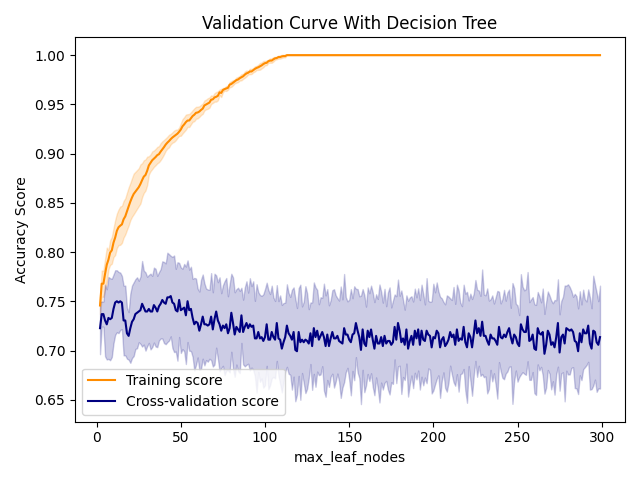
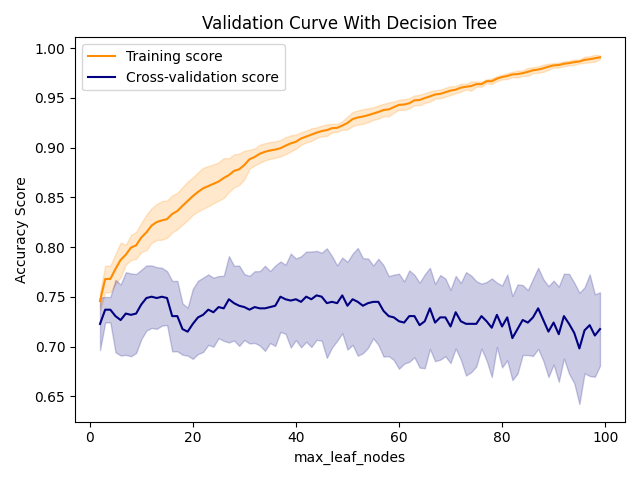
[ADD]: add grid search cv

diff --git a/main.py b/main.py
@@ -41,7 +41,7 @@ def plot_validation_curve(X, Y, param_name, param_range):
     train_scores, test_scores = validation_curve(
         DecisionTreeClassifier(),
         X, Y, param_range=param_range, param_name=param_name, cv=5,
-        scoring="accuracy", n_jobs=-1)
+        scoring="accuracy", n_jobs=8)
     train_mean = np.mean(train_scores, axis=1)
     train_std = np.std(train_scores, axis=1)
     test_mean = np.mean(test_scores, axis=1)
@@ -120,6 +120,22 @@ def find_best_classifier(x_train, x_test, y_train, y_test):
     clf = clf.fit(x_train, y_train)
     return clf
 
+def search_with_grid(X, Y, x_train, x_test, y_train, y_test):
+    param_grid = {
+        'max_depth': np.arange(1, 15),
+        'min_samples_split': np.arange(2, 100),
+        'min_samples_leaf': np.arange(2, 150),
+        'max_leaf_nodes': np.arange(2, 100),
+        'min_impurity_decrease': np.arange(0.0005, 0.003, 0.0005),
+    }
+    grid = GridSearchCV(DecisionTreeClassifier(), param_grid, cv=5, n_jobs=-1)
+    grid.fit(X, Y)
+    clf = DecisionTreeClassifier(**grid.best_params_)
+    clf.fit(x_train, y_train)
+    y_pred = clf.predict(x_test)
+    acc_score = accuracy_score(y_test, y_pred) * 100
+    print("Accuracy after parameters tunning with grid search:", acc_score, grid.best_params_, grid.best_score_, grid.best_index_)
+
 
 def main():
     """Main function
@@ -128,23 +144,13 @@ def main():
     features_cols = [i for i in data_frame.columns.values.tolist() if i not in [
         'class']]
     X, Y = data_frame[features_cols], data_frame['class']
-    param_grid = {
-        'max_depth': np.arange(1, 30),
-        'min_samples_split': np.arange(2, 200, 5),
-        'min_samples_leaf': np.arange(2, 200, 5),
-        'max_leaf_nodes': np.arange(2, 100, 5),
-        'min_impurity_decrease': np.arange(0.0005, 0.2, 0.0005),
-    }
-    grid = GridSearchCV(DecisionTreeClassifier(), param_grid, cv=7)
-    grid.fit(X, Y)
-    print(grid.best_params_)
-    plot_validation_curve(X, Y, 'max_depth', np.arange(1, 30))
-    plot_validation_curve(X, Y, 'min_samples_split', np.arange(2, 400))
-    plot_validation_curve(X, Y, 'min_samples_leaf', np.arange(2, 200))
-    plot_validation_curve(X, Y, 'max_leaf_nodes', np.arange(2, 300))
+    plot_validation_curve(X, Y, 'max_depth', np.arange(1, 15))
+    plot_validation_curve(X, Y, 'min_samples_split', np.arange(2, 100))
+    plot_validation_curve(X, Y, 'min_samples_leaf', np.arange(2, 150))
+    plot_validation_curve(X, Y, 'max_leaf_nodes', np.arange(2, 100))
     plot_validation_curve(
         X, Y, 'min_impurity_decrease', np.arange(
-            0.0005, 1, 0.0005))
+            0.0005, 0.1, 0.0005))
     x_train, x_test, y_train, y_test = train_test_split(
         X, Y, test_size=0.20, random_state=42)
     clf = DecisionTreeClassifier(random_state=42)
@@ -152,9 +158,11 @@ def main():
     y_pred = clf.predict(x_test)
     acc_score = accuracy_score(y_test, y_pred) * 100
     print("Accuracy before parameters tunning:", acc_score)
-    #clf = find_best_classifier(x_train, x_test, y_train, y_test)
-    #y_pred = clf.predict(x_test)
-    #acc_score = accuracy_score(y_test, y_pred) * 100
+    search_with_grid(X, Y, x_train, x_test, y_train, y_test)
+    clf = find_best_classifier(x_train, x_test, y_train, y_test)
+    clf.fit(x_train, y_train)
+    y_pred = clf.predict(x_test)
+    acc_score = accuracy_score(y_test, y_pred) * 100
     print("Accuracy after parameters tunning:", acc_score)
 
 
